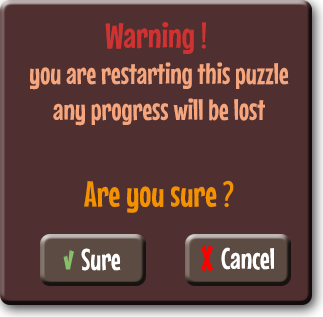
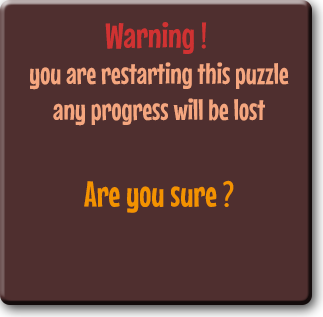
back,restart,movecounters are working now

Changed region(s): [[0.1238, 0.7382, 0.4644, 0.9085], [0.5573, 0.7382, 0.8978, 0.9085]]

diff --git a/src/shima.c b/src/shima.c
@@ -19,7 +19,7 @@ static int selected=0;
 static char **inifiles=NULL;
 static int iniamount=0;
 static int gamestate=0;
-static UINT mcnt;
+static UINT mcnt=0;
 
 PUZZLE puzzle;
 
@@ -411,7 +411,7 @@ void puzzleSelection() {
   if (strlen(puzzle.title)) {
     /* title layer might be used & moved previous */
     sil_placeLayer(titleLyr,350,525);
-    sil_paintLayer(titleLyr,SILCOLOR_BLACK,0);
+    sil_clearLayer(titleLyr);
     sil_setForegroundColor(SILCOLOR_PALE_GOLDEN_ROD,255);
     sil_drawText(titleLyr,mm32Fnt,puzzle.title,0,0,0);
     sil_show(titleLyr);
@@ -419,7 +419,7 @@ void puzzleSelection() {
 
   /* Description / Goal */
   if (strlen(puzzle.description)) {
-    sil_paintLayer(descLyr,SILCOLOR_BLACK,0);
+    sil_clearLayer(descLyr);
     sil_drawText(descLyr,boogalo22Fnt,"Goal:",25,0,0);
     sil_drawText(descLyr,boogalo22Fnt,puzzle.description,60,0,SILTXT_KEEPCOLOR);
     sil_show(descLyr);
@@ -427,7 +427,7 @@ void puzzleSelection() {
 
   /* Creator information */
   if (strlen(puzzle.creator)) {
-    sil_paintLayer(creatorLyr,SILCOLOR_BLACK,0);
+    sil_clearLayer(creatorLyr);
     sil_drawText(creatorLyr,boogalo18Fnt,"Created by:",0,0,0);
     sil_setForegroundColor(SILCOLOR_SILVER,255);
     sil_drawText(creatorLyr,boogalo18Fnt,puzzle.creator,60,0,0);
@@ -437,6 +437,23 @@ void puzzleSelection() {
 
   sil_updateDisplay();
 }
+
+/* update move counter */
+void updateMove() {
+  char tmp[100];
+  UINT size;
+
+  memset(&tmp[0],0,sizeof(tmp));
+  snprintf(tmp,sizeof(tmp)-1,"%d",mcnt);
+  size=sil_getTextWidth(mm32Fnt,tmp,0);
+  sil_clearLayer(mcntLyr);
+  sil_setForegroundColor(SILCOLOR_PALE_GOLDEN_ROD,255);
+  sil_drawText(mcntLyr,mm32Fnt,tmp,65-size,0,0);
+}
+
+
+
+/* Handlers */
 
 UINT back(SILEVENT *event) {
   if (SOLVINGPUZZLE==gamestate) {
@@ -514,6 +531,63 @@ UINT previousPuzzle(SILEVENT *event) {
   return 0;
 }
 
+UINT okhandler(SILEVENT *event) {
+  if (gamestate==WARNRESTART) {
+    gamestate=SOLVINGPUZZLE;
+    sil_hideGroup(warningGrp);
+
+    /* place all pieces back to original position */
+    for (int i=0;i<65;i++) {
+      if (NULL!=puzzle.pieceLyr[i]) {
+        sil_placeLayer(puzzle.pieceLyr[i],
+          boardLyr->relx+puzzle.posx+puzzle.piece[i].origx*puzzle.pw,
+          boardLyr->rely+puzzle.posy+puzzle.piece[i].origy*puzzle.ph);
+        puzzle.piece[i].x=puzzle.piece[i].origx;
+        puzzle.piece[i].y=puzzle.piece[i].origy;
+      }
+    }
+
+    /* set internal position back to start position */
+    for (int x=0;x<100;x++) {
+      for (int y=0;y<100;y++) {
+        puzzle.pos[x][y]=puzzle.start[x][y];
+      }
+    }
+    mcnt=0;
+    updateMove();
+    return 1;
+  }
+  if (gamestate==WARNBACK) {
+    gamestate=SELECTPUZZLE;
+    sil_hideGroup(warningGrp);
+
+    /* destroy the dynamicly allocated piece layers */
+    for (int i=0;i<65;i++) {
+      if (NULL!=puzzle.pieceLyr[i]) sil_destroyLayer(puzzle.pieceLyr[i]);
+      puzzle.pieceLyr[i]=NULL;
+    }
+
+    /* clear board */
+    sil_clearLayer(boardLyr);
+
+    /* hide everything */
+    sil_hideGroup(solveGrp);
+
+    /* hand it over to puzzleSelection */
+    puzzleSelection();
+
+    
+    return 0;
+  }
+  return 0;
+}
+
+UINT cancelhandler(SILEVENT *event) {
+  gamestate=SOLVINGPUZZLE;
+  sil_hideGroup(warningGrp);
+  return 1;
+}
+
 
 /* Check if piece can be moved                        */
 /* returns 1 when can be, 0 when wasn't allow to move */
@@ -573,6 +647,8 @@ BYTE shiftpiece (int code,int dx,int dy) {
   BYTE ret=0;
   ret=checkshift(code,dx,dy);
   if (0==ret) return 0;
+  mcnt++;
+  updateMove();
   if (dx<0) {
     /* left */
     for (int y=0;y<puzzle.maxy;y++) {
@@ -583,7 +659,7 @@ BYTE shiftpiece (int code,int dx,int dy) {
         }
       }
     }
-    puzzle.piece[code].x-=puzzle.pw;
+    puzzle.piece[code].x--;
     sil_moveLayer(puzzle.pieceLyr[code],-puzzle.pw,0);
   }
   if (dx>0) {
@@ -596,7 +672,7 @@ BYTE shiftpiece (int code,int dx,int dy) {
         }
       }
     }
-    puzzle.piece[code].x+=puzzle.pw;
+    puzzle.piece[code].x++;
     sil_moveLayer(puzzle.pieceLyr[code],puzzle.pw,0);
   }
   if (dy>0) {
@@ -609,7 +685,7 @@ BYTE shiftpiece (int code,int dx,int dy) {
         }
       }
     }
-    puzzle.piece[code].y+=puzzle.ph;
+    puzzle.piece[code].y++;
     sil_moveLayer(puzzle.pieceLyr[code],0,puzzle.ph);
   }
   if (dy<0) {
@@ -622,7 +698,7 @@ BYTE shiftpiece (int code,int dx,int dy) {
         }
       }
     }
-    puzzle.piece[code].y-=puzzle.ph;
+    puzzle.piece[code].y--;
     sil_moveLayer(puzzle.pieceLyr[code],0,-puzzle.ph);
   }
 
@@ -724,21 +800,28 @@ void initPuzzleSelect() {
 void initWarning() {
   warningGrp=sil_createGroup();
 
-  btn_okLyr=sil_PNGtoNewLayer("surebutton.png",335,535);
-  sil_addLayerGroup(warningGrp,btn_okLyr);
-  sil_setAlphaLayer(btn_prevLyr,0.3);
-  sil_setHoverHandler(btn_prevLyr,lightUp);
-
-  btn_cancelLyr=sil_PNGtoNewLayer("cancelbutton.png",480,535);
-  sil_addLayerGroup(warningGrp,btn_cancelLyr);
-  sil_setAlphaLayer(btn_prevLyr,0.3);
-  sil_setHoverHandler(btn_prevLyr,lightUp);
-
   warnrestartLyr=sil_PNGtoNewLayer("warningrestart.png",290,300);
+  sil_setFlags(warnrestartLyr,SILFLAG_MOUSESHIELD);
   sil_addLayerGroup(warningGrp,warnrestartLyr);
 
   warnbackLyr=sil_PNGtoNewLayer("warningback.png",290,300);
+  sil_setFlags(warnbackLyr,SILFLAG_MOUSESHIELD);
   sil_addLayerGroup(warningGrp,warnbackLyr);
+
+  btn_okLyr=sil_PNGtoNewLayer("surebutton.png",335,535);
+  sil_setFlags(btn_okLyr,SILFLAG_MOUSEALLPIX);
+  sil_setAlphaLayer(btn_okLyr,0.3);
+  sil_setHoverHandler(btn_okLyr,lightUp);
+  sil_setClickHandler(btn_okLyr,okhandler);
+  sil_addLayerGroup(warningGrp,btn_okLyr);
+
+  btn_cancelLyr=sil_PNGtoNewLayer("cancelbutton.png",480,535);
+  sil_setFlags(btn_cancelLyr,SILFLAG_MOUSEALLPIX);
+  sil_setAlphaLayer(btn_cancelLyr,0.3);
+  sil_setHoverHandler(btn_cancelLyr,lightUp);
+  sil_setClickHandler(btn_cancelLyr,cancelhandler);
+  sil_addLayerGroup(warningGrp,btn_cancelLyr);
+
 
   sil_hideGroup(warningGrp);
 }
@@ -746,18 +829,21 @@ void initWarning() {
 void initPuzzleSolving() {
   solveGrp=sil_createGroup();
   boardLyr=sil_addLayer(150,150,700,700,SILTYPE_ARGB);
+  sil_addLayerGroup(solveGrp,boardLyr);
+
   for (int i=0;i<65;i++) {
     puzzle.pieceLyr[i]=NULL;
-    sil_addLayerGroup(solveGrp,puzzle.pieceLyr[i]);
   }
 
   btn_backLyr=sil_PNGtoNewLayer("back.png",30,880);
+  sil_setFlags(btn_backLyr,SILFLAG_MOUSEALLPIX);
   sil_setAlphaLayer(btn_backLyr,0.3);
   sil_setHoverHandler(btn_backLyr,lightUp);
   sil_setClickHandler(btn_backLyr,back);
   sil_addLayerGroup(solveGrp,btn_backLyr);
 
   btn_restartLyr=sil_PNGtoNewLayer("restart.png",450,880);
+  sil_setFlags(btn_restartLyr,SILFLAG_MOUSEALLPIX);
   sil_setAlphaLayer(btn_restartLyr,0.3);
   sil_setHoverHandler(btn_restartLyr,lightUp);
   sil_setClickHandler(btn_restartLyr,restart);
@@ -769,20 +855,15 @@ void initPuzzleSolving() {
 
   mcntLyr=sil_addLayer(900,200,100,120,SILTYPE_ARGB);
   sil_addLayerGroup(solveGrp,mcntLyr);
-  sil_setForegroundColor(SILCOLOR_PALE_GOLDEN_ROD,255);
-  sil_drawText(mcntLyr,mm32Fnt,"0",50,0,0);
   sil_addLayerGroup(solveGrp,mcntLyr);
+
+  mcnt=0;
+  updateMove;
 
   sil_hideGroup(solveGrp);
 
 }
 
-void destroyPuzzleSolving() {
-  for (int i=0;i<65;i++) {
-    if (NULL!=puzzle.pieceLyr[i]) sil_destroyLayer(puzzle.pieceLyr[i]);
-  }
-  if (NULL!=boardLyr) sil_destroyLayer(boardLyr);
-}
 
 void warning(BYTE type) {
   if (WARNBACK==type) {
@@ -793,7 +874,9 @@ void warning(BYTE type) {
     sil_show(warnrestartLyr);
   }
   sil_show(btn_okLyr);
+  sil_setAlphaLayer(btn_okLyr,0.3);
   sil_show(btn_cancelLyr);
+  sil_setAlphaLayer(btn_cancelLyr,0.3);
   sil_topGroup(warningGrp);
   sil_updateDisplay();
 }
@@ -923,6 +1006,8 @@ void puzzleSolving() {
   }
 
   sil_destroyLayer(tmpLyr);
+  mcnt=0;
+  updateMove();
 
   sil_updateDisplay();
 }

diff --git a/src/layer.c b/src/layer.c
@@ -881,15 +881,12 @@ SILLYR *sil_findHighestClick(UINT x,UINT y) {
         sil_getPixelLayer(layer,x-layer->relx,y-layer->rely,&red,&green,&blue,&alpha);
         if (alpha>0) return layer;
       }
+      /* if we find layer with flag "MOUSESHIELD" , we stop searching */
+      /* therefore blocking/shielding any mouseevent for layer under  */
+      /* this layer                                                   */
+      if (layer->flags&(SILFLAG_MOUSESHIELD)) return NULL;
     }
-    /* if we find layer with flag "MOUSESHIELD" , we stop searching */
-    /* therefore blocking/shielding any mouseevent for layer under  */
-    /* this layer                                                   */
-    if (!(layer->flags&SILFLAG_MOUSESHIELD)) {
-      layer=layer->previous;
-    } else {
-      layer=NULL; 
-    }
+    layer=layer->previous;
   }
   sil_setErr(SILERR_ALLOK);
   return NULL;
@@ -930,15 +927,12 @@ SILLYR *sil_findHighestHover(UINT x,UINT y) {
         sil_getPixelLayer(layer,x-layer->relx,y-layer->rely,&red,&green,&blue,&alpha);
         if (alpha>0) return layer;
       }
+      /* if we find layer with flag "MOUSESHIELD" , we stop searching */
+      /* therefore blocking/shielding any mouseevent for layer under  */
+      /* this layer                                                   */
+      if (layer->flags&(SILFLAG_MOUSESHIELD)) return NULL;
     }
-    /* if we find layer with flag "MOUSESHIELD" , we stop searching */
-    /* therefore blocking/shielding any mouseevent for layer under  */
-    /* this layer                                                   */
-    if (!(layer->flags&SILFLAG_MOUSESHIELD)) {
-      layer=layer->previous;
-    } else {
-      layer=NULL; 
-    }
+    layer=layer->previous;
   }
   sil_setErr(SILERR_ALLOK);
   return NULL;
@@ -1500,4 +1494,21 @@ void sil_hide(SILLYR *layer) {
 void sil_show(SILLYR *layer) {
   sil_clearFlags(layer,SILFLAG_INVISIBLE);
   sil_setErr(SILERR_ALLOK);
+}
+
+/*****************************************************************************
+
+  clear layer, faster then painting it with color + alpha 0
+
+ *****************************************************************************/
+
+void sil_clearLayer(SILLYR *layer) {
+#ifndef SIL_LIVEDANGEROUS
+  if ((NULL==layer)||(NULL==layer->fb)||(0==layer->fb->size)) {
+    log_warn("clearing layer that isn't initialized or with empty fb");
+    sil_setErr(SILERR_NOTINIT);
+    return ;
+  }
+#endif
+  sil_clearFB(layer->fb);
 }

diff --git a/src/sil.h b/src/sil.h
@@ -197,6 +197,7 @@ void sil_hide(SILLYR *);
 void sil_show(SILLYR *);
 SILLYR *sil_addCopy(SILLYR *,UINT,UINT);
 SILLYR *sil_addInstance(SILLYR *,UINT,UINT);
+void sil_clearLayer(SILLYR *);
 
 /* group.c */
 typedef struct _SILGROUP {
